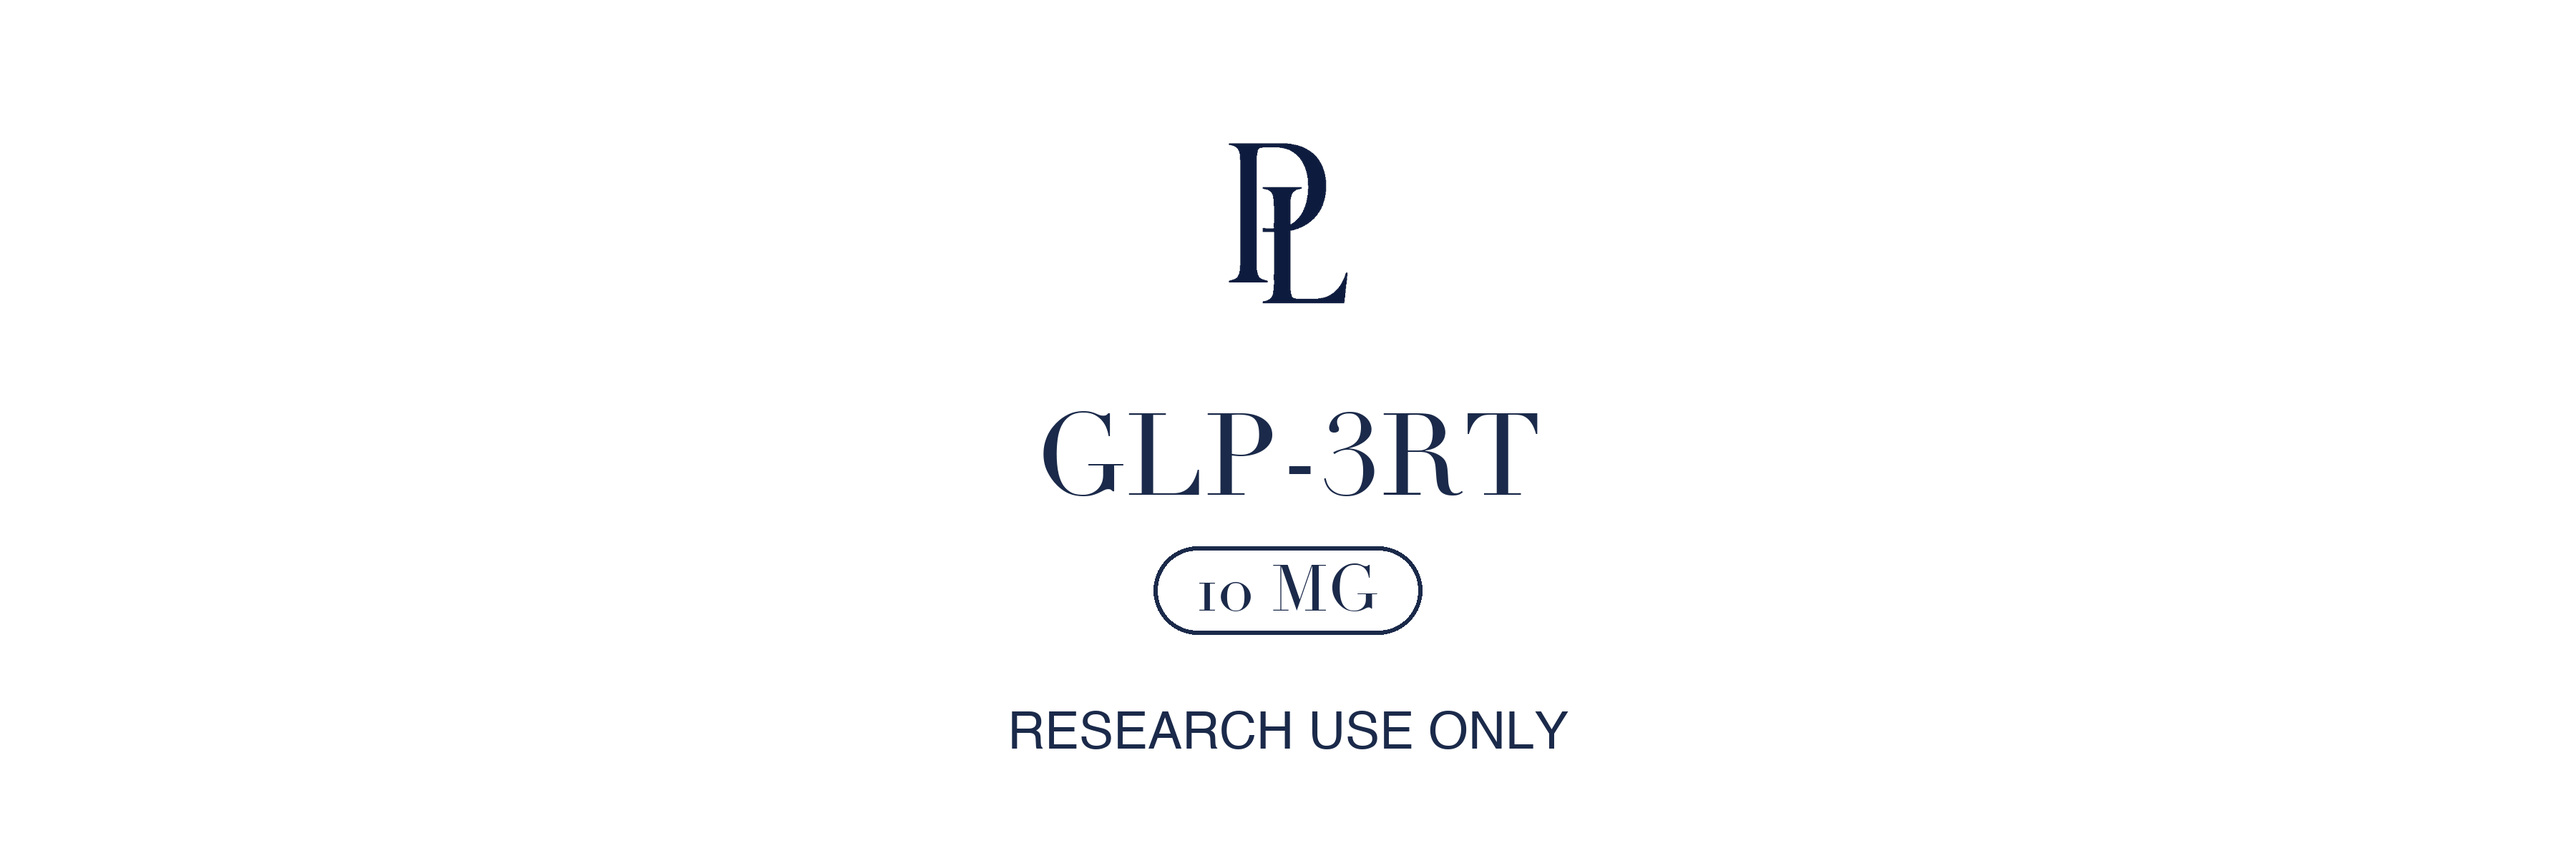
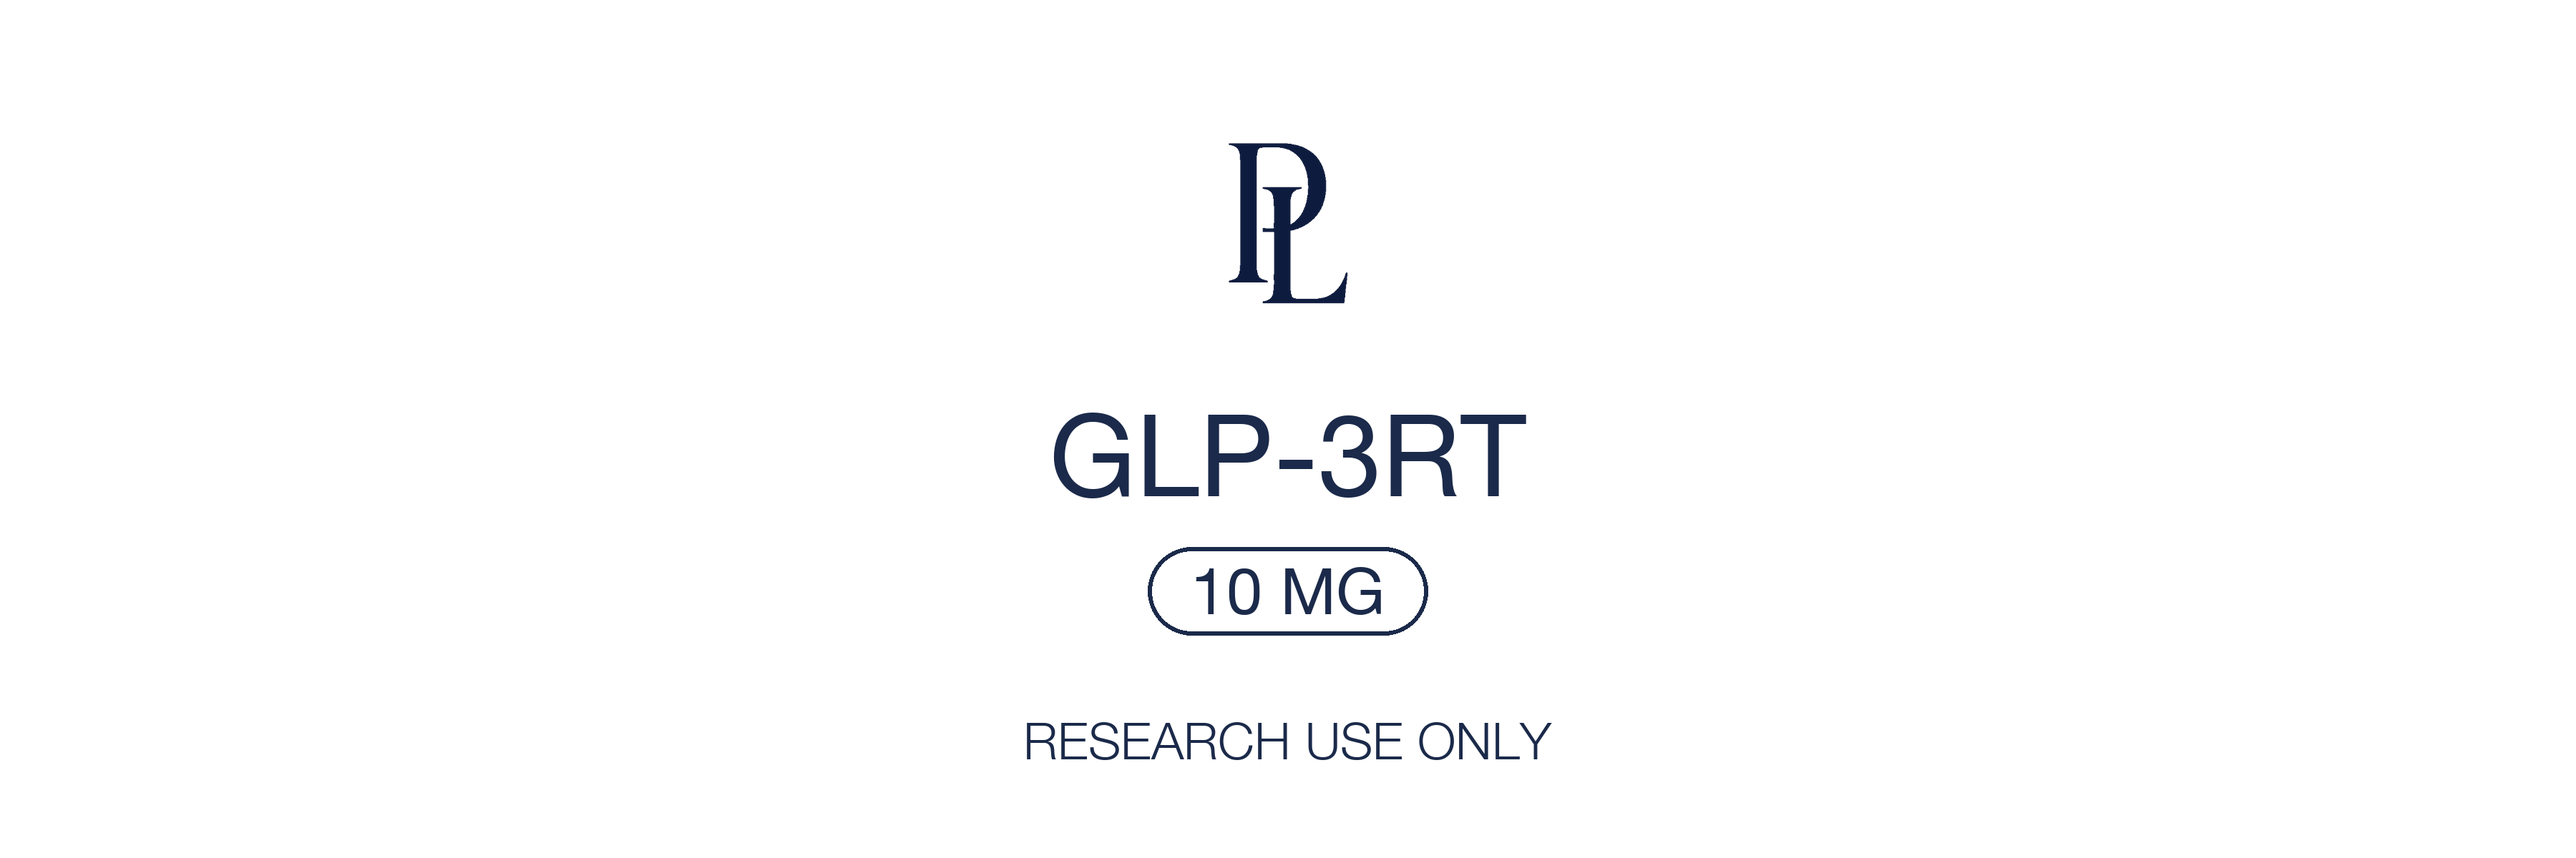
feat: Helvetica Neue font on all vial labels

Changed region(s): [[0.4044, 0.4625, 0.5911, 0.5858], [0.3733, 0.8325, 0.6222, 0.8942], [0.4356, 0.6475, 0.56, 0.74]]

diff --git a/scripts/generate-labels.py b/scripts/generate-labels.py
@@ -11,28 +11,21 @@ W, H = 3600, 1200
 NAVY = (27, 42, 74, 255)
 TRANSPARENT = (0, 0, 0, 0)
 
-SERIF_PATHS = [
-    "/System/Library/Fonts/Supplemental/Didot.ttc",
-    "/System/Library/Fonts/Supplemental/Georgia.ttf",
-]
-SANS_PATHS = ["/System/Library/Fonts/Helvetica.ttc"]
+HN = "/System/Library/Fonts/HelveticaNeue.ttc"
+# Helvetica Neue indices: 0=Regular, 1=Bold, 7=Light
+HN_REGULAR = (HN, 0)
+HN_LIGHT   = (HN, 7)
 
-def load_font(paths, size, index=0):
-    for p in paths:
-        if os.path.exists(p):
-            try:
-                return ImageFont.truetype(p, size, index=index)
-            except Exception:
-                pass
-    return ImageFont.load_default()
+def load_font(path, index, size):
+    return ImageFont.truetype(path, size, index=index)
 
 def draw_label(filename, product_name, dosage):
     img  = Image.new("RGBA", (W, H), TRANSPARENT)
     draw = ImageDraw.Draw(img)
 
-    font_name   = load_font(SERIF_PATHS, 160) if len(product_name) <= 12 else load_font(SERIF_PATHS, 120)
-    font_dosage = load_font(SERIF_PATHS, 90)
-    font_tag    = load_font(SANS_PATHS, 72)
+    font_name   = load_font(*HN_REGULAR, 160) if len(product_name) <= 12 else load_font(*HN_REGULAR, 120)
+    font_dosage = load_font(*HN_REGULAR, 90)
+    font_tag    = load_font(*HN_LIGHT,   72)
 
     pill_pad_x = 60
     pill_pad_y = 28
@@ -54,7 +47,7 @@ def draw_label(filename, product_name, dosage):
     tag_h  = tag_bb[3]  - tag_bb[1]
     pill_h = dose_h + pill_pad_y * 2
 
-    # Fit all 4 elements evenly within content band (matching original GLP-3RT proportions)
+    # Fit all 4 elements evenly within content band
     CONTENT_START = 187
     CONTENT_END   = 1047
     CONTENT_SPAN  = CONTENT_END - CONTENT_START
@@ -70,7 +63,7 @@ def draw_label(filename, product_name, dosage):
         draw.text(((W - tw) // 2, y_pos), text, fill=NAVY, font=font)
         return bb[3] - bb[1]
 
-    # 1. PL logo (composite)
+    # 1. PL logo
     logo_x = (W - logo_w) // 2
     img.paste(logo_img, (logo_x, y), logo_img)
     y += logo_target_h + gap
